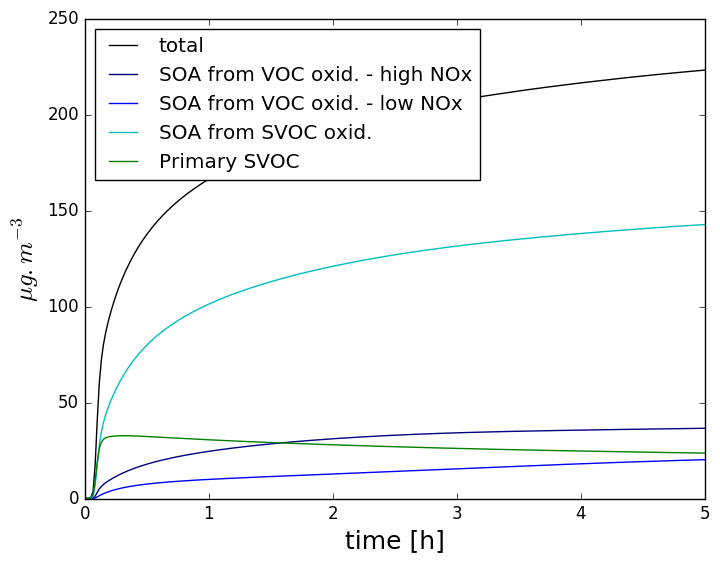
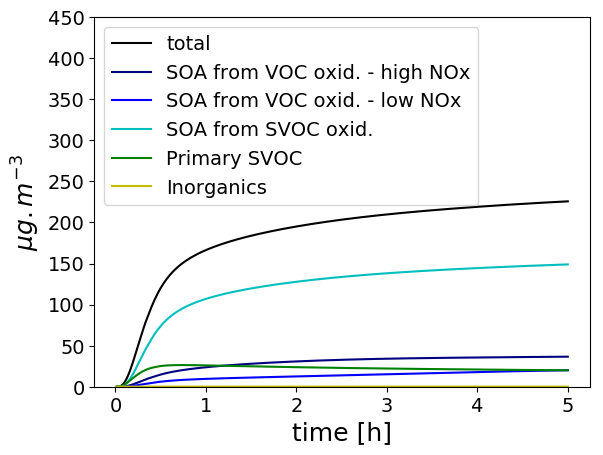
Update platt test case and add sensitivity tests.

diff --git a/graph/platt_isop.py b/graph/platt_isop.py
@@ -1,0 +1,101 @@
+#!/usr/bin/env python
+import os, sys
+import matplotlib
+matplotlib.use('Agg')
+from pylab import *
+import numpy, pylab
+
+# Turn interactive plotting off
+plt.ioff()
+################### input parameters #################################"
+dir1 = '../results/aerosol-platt/aero/'
+dir2 = '../results/aerosol-platt-nh3-isop/aero/'
+dir3 = '../results/aerosol-platt-nh3-isopu/aero/'
+dir4 = '../results/aerosol-platt-nh3-isopa/aero/'
+
+Nt= 5 * 60
+#####################################################################
+
+
+font = {'size'   : 14}
+matplotlib.rc('font', **font)
+matplotlib.pyplot.xticks(fontsize=14)
+
+shape = [Nt]
+inorg=np.zeros(shape)
+isop1=np.zeros(shape)
+isop2=np.zeros(shape)
+isop3=np.zeros(shape)
+isop4=np.zeros(shape)
+
+with open (dir1+'/PBiPER_1.txt') as finit :
+	string_conc1 = finit.read().splitlines()
+        for j in range(Nt) :
+       	   isop1[j] = isop1[j] + float(string_conc1[j])
+with open (dir1+'/PBiDER_1.txt') as finit :
+	string_conc1 = finit.read().splitlines()
+        for j in range(Nt) :
+       	   isop1[j] = isop1[j] + float(string_conc1[j])
+with open (dir1+'/PBiMT_1.txt') as finit :
+	string_conc1 = finit.read().splitlines()
+        for j in range(Nt) :
+       	   isop1[j] = isop1[j] + float(string_conc1[j])
+
+with open (dir2+'/PBiPER_1.txt') as finit :
+	string_conc1 = finit.read().splitlines()
+        for j in range(Nt) :
+       	   isop2[j] = isop2[j] + float(string_conc1[j])
+with open (dir2+'/PBiDER_1.txt') as finit :
+	string_conc1 = finit.read().splitlines()
+        for j in range(Nt) :
+       	   isop2[j] = isop2[j] + float(string_conc1[j])
+with open (dir2+'/PBiMT_1.txt') as finit :
+	string_conc1 = finit.read().splitlines()
+        for j in range(Nt) :
+       	   isop2[j] = isop2[j] + float(string_conc1[j])
+
+with open (dir3+'/PBiPER_1.txt') as finit :
+	string_conc1 = finit.read().splitlines()
+        for j in range(Nt) :
+       	   isop3[j] = isop3[j] + float(string_conc1[j])
+with open (dir3+'/PBiDER_1.txt') as finit :
+	string_conc1 = finit.read().splitlines()
+        for j in range(Nt) :
+       	   isop3[j] = isop3[j] + float(string_conc1[j])
+with open (dir3+'/PBiMT_1.txt') as finit :
+	string_conc1 = finit.read().splitlines()
+        for j in range(Nt) :
+       	   isop3[j] = isop3[j] + float(string_conc1[j])
+
+with open (dir4+'/PBiPER_1.txt') as finit :
+	string_conc1 = finit.read().splitlines()
+        for j in range(Nt) :
+       	   isop4[j] = isop4[j] + float(string_conc1[j])
+with open (dir4+'/PBiDER_1.txt') as finit :
+	string_conc1 = finit.read().splitlines()
+        for j in range(Nt) :
+       	   isop4[j] = isop4[j] + float(string_conc1[j])
+with open (dir4+'/PBiMT_1.txt') as finit :
+	string_conc1 = finit.read().splitlines()
+        for j in range(Nt) :
+       	   isop4[j] = isop4[j] + float(string_conc1[j])
+
+time=range(60,60*(Nt+1),60)
+time=numpy.array(time)
+time=time/3600.0
+
+fig = plt.figure()
+#ax = fig.add_subplot(1,1,1)
+fig = plt.figure(1,figsize = (15,15))
+plt.ylim(0.,80.)
+
+plt.plot(time, isop1,'k-',label='No NH$_3$')
+plt.plot(time, isop2,'g-',label='With NH$_3$ - ideal')
+plt.plot(time, isop3,'b-',label='With NH$_3$ - unifac')
+plt.plot(time, isop4,'c-',label='With NH$_3$ - aiomfac')
+plt.ylabel("$\mu g.m^{-3}$", fontsize=18)
+plt.xlabel("time [h]", fontsize=18)
+plt.legend(loc=2)
+plt.savefig("platt-isop.png",bbox_inches='tight')
+plt.tight_layout()
+plt.close(fig)

diff --git a/graph/plot_platt_particles_nh3.py b/graph/plot_platt_particles_nh3.py
@@ -8,7 +8,7 @@ import numpy, pylab
 # Turn interactive plotting off
 plt.ioff()
 ################### input parameters #################################"
-dir2 = '../results/aerosol-platt/aero/'
+dir2 = '../results/aerosol-platt-nh3/aero/'
 
 Nt= 5 * 60
 #####################################################################
@@ -129,6 +129,6 @@ plt.plot(time, inorg,'y-',label='Inorganics')
 plt.ylabel("$\mu g.m^{-3}$", fontsize=18)
 plt.xlabel("time [h]", fontsize=18)
 plt.legend(loc=2)
-plt.savefig("platt-particles.png",bbox_inches='tight')
+plt.savefig("platt-particles-nh3.png",bbox_inches='tight')
 plt.tight_layout()
 plt.close(fig)
